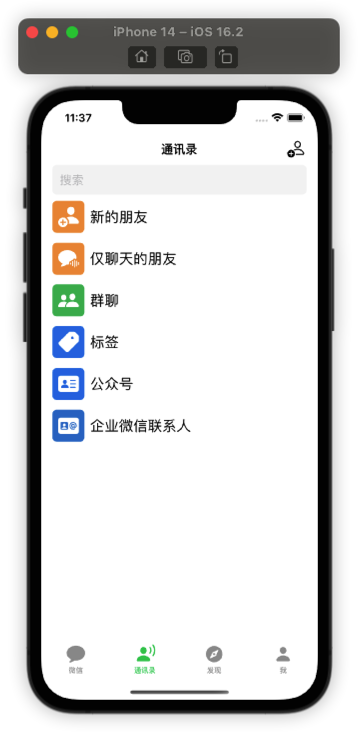
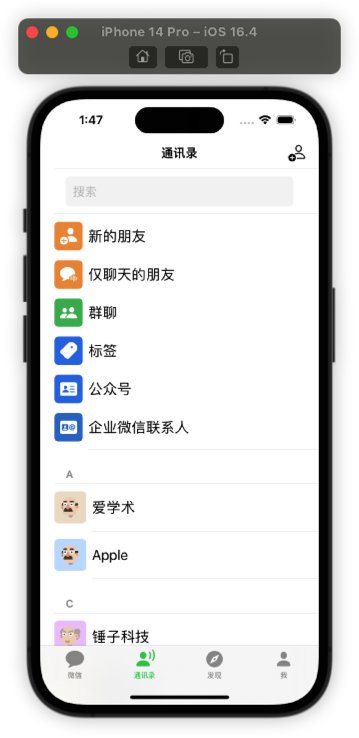
通讯录人员详情完善

diff --git a/wechat/data/Data.swift b/wechat/data/Data.swift
@@ -7,28 +7,35 @@
 
 import Foundation
 
-var recentMessages: [RecentMessage] = [
-    RecentMessage(title:"实时公交",recentMessage:"公交线路查询",date: "7:32", cover:"bus.doubledecker", onTop: true),
-    RecentMessage(title:"铁路12306",recentMessage:"成功订票",date: "7:32", cover:"train.side.front.car", onTop: true),
-    RecentMessage(title:"实时公交",recentMessage:"公交线路查询",date: "7:32", cover:"bus.doubledecker", onTop: true),
-    RecentMessage(title:"铁路12306",recentMessage:"成功订票",date: "7:32", cover:"train.side.front.car", mutex: true),
-    RecentMessage(title:"实时公交",recentMessage:"公交线路查询",date: "7:32", cover:"bus.doubledecker", mutex: true),
-    RecentMessage(title:"铁路12306",recentMessage:"成功订票",date: "7:32", cover:"train.side.front.car", mutex: true),
-    RecentMessage(title:"实时公交",recentMessage:"公交线路查询",date: "昨天", cover:"bus.doubledecker"),
-    RecentMessage(title:"铁路12306",recentMessage:"成功订票",date: "昨天", cover:"train.side.front.car"),
-    RecentMessage(title:"实时公交",recentMessage:"公交线路查询",date: "前天", cover:"bus.doubledecker"),
-    RecentMessage(title:"铁路12306",recentMessage:"成功订票",date: "前天", cover:"train.side.front.car"),
-    RecentMessage(title:"实时公交",recentMessage:"公交线路查询",date: "前天", cover:"bus.doubledecker"),
-    RecentMessage(title:"铁路12306",recentMessage:"成功订票",date: "星期一", cover:"train.side.front.car"),
-    RecentMessage(title:"实时公交",recentMessage:"公交线路查询",date: "星期一", cover:"bus.doubledecker"),
-    RecentMessage(title:"铁路12306",recentMessage:"成功订票",date: "3-21", cover:"train.side.front.car"),
-    RecentMessage(title:"实时公交",recentMessage:"公交线路查询",date: "3-20", cover:"bus.doubledecker"),
-    RecentMessage(title:"铁路12306",recentMessage:"成功订票",date: "1-23", cover:"train.side.front.car"),
-]
+
+
+class Db: ObservableObject{
+    @Published var recentMessages: [RecentMessage] = [
+        RecentMessage(title:"爱学术",pinyin:"AIXUESHU",recentMessage:"文章查询",date: "7:32", cover:"bus.doubledecker", onTop: true),
+        RecentMessage(title:"Apple",pinyin:"APPLE",recentMessage:"iOS17发布",date: "7:32", cover:"bus.doubledecker", onTop: true),
+        RecentMessage(title:"锤子科技",pinyin:"CHUIZIKEJI",recentMessage:"锤子T3新品发布会",date: "7:32", cover:"train.side.front.car", onTop: true),
+        RecentMessage(title:"IT之家",pinyin:"ITZHIJIA",recentMessage:"iOS17发布",date: "7:32", cover:"bus.doubledecker", onTop: true),
+        RecentMessage(title:"孔夫子旧书网",pinyin:"KONGFUZHIJIUSHUWANG",recentMessage:"购书成功",date: "7:32", cover:"train.side.front.car", mutex: true),
+        RecentMessage(title:"SeaTable",pinyin:"SEATABLE",recentMessage:"使用教程",date: "7:32", cover:"bus.doubledecker", mutex: true),
+        RecentMessage(title:"铁路12306",pinyin:"TIELU12306",recentMessage:"成功订票",date: "7:32", cover:"train.side.front.car", mutex: true),
+        RecentMessage(title:"四川省图书馆",pinyin:"SICHUANSHENGTUSHUGUAN",recentMessage:"入馆预定",date: "昨天", cover:"bus.doubledecker"),
+        RecentMessage(title:"微信运动",pinyin:"WEIXINYUNDONG",recentMessage:"昨日微信步数排行第一",date: "昨天", cover:"train.side.front.car"),
+        RecentMessage(title:"微信支付",pinyin:"WEIXINZHIFU",recentMessage:"",date: "前天", cover:"bus.doubledecker"),
+        RecentMessage(title:"中国移动",pinyin:"ZHONGGUOYIDONG",recentMessage:"当前余额:欠费0.01",date: "前天", cover:"train.side.front.car"),
+        RecentMessage(title:"实时公交",pinyin:"SHISHIGONGJIAO",recentMessage:"公交线路查询",date: "前天", cover:"bus.doubledecker"),
+        RecentMessage(title:"重庆移动",pinyin:"CHOGNQIYIDONG",recentMessage:"当前余额:欠费0.01",date: "星期一", cover:"train.side.front.car"),
+        RecentMessage(title:"中国联通",pinyin:"ZHONGGUOLIANTONG",recentMessage:"当前套餐:哔哩哔哩22卡",date: "星期一", cover:"bus.doubledecker"),
+        RecentMessage(title:"中国石化",pinyin:"ZHONGGUOSHIHUA",recentMessage:"",date: "3-21", cover:"train.side.front.car"),
+        RecentMessage(title:"腾讯企业邮箱",pinyin:"TENGXUNQIYEYOUXIANG",recentMessage:"[新邮件]提醒",date: "3-20", cover:"bus.doubledecker"),
+        RecentMessage(title:"腾讯视频",pinyin:"TENGXUNSHIP",recentMessage:"会员过期",date: "1-23", cover:"train.side.front.car"),
+    ]
+
+}
 
 struct RecentMessage: Identifiable{
     var id = UUID().uuidString
     var title : String
+    var pinyin: String
     var avatarIndex = Int.random(in: 0...9)
     var avatarColorIndex = Int.random(in: 0...9)
     var recentMessage : String

diff --git a/wechat/contacts/ContactsView.swift b/wechat/contacts/ContactsView.swift
@@ -8,11 +8,27 @@
 import SwiftUI
 
 struct ContactsView: View {
+    @EnvironmentObject var db: Db
     @State var isPopover = false
     @State var searchText = ""
     @FocusState var isSearchFoucsed
+    let letters = Array("ABCDEFGHIJKLMNOPQRSTUVWXYZ")
+    
+    func groupedBy(charater: Character) -> [RecentMessage]{
+        return db.recentMessages.filter{$0.pinyin.hasPrefix(charater.uppercased())}
+    }
+    
+    func hasContactsGroup(charater: Character) -> Bool{
+        for recent in db.recentMessages {
+            if recent.pinyin.uppercased().hasPrefix(charater.uppercased()) {
+                return true
+            }
+        }
+        return false
+    }
+    
     var body: some View {
-        ScrollView(showsIndicators: false){
+        List{
             HStack{
                 TextField("搜索",text: $searchText)
                     .focused($isSearchFoucsed)
@@ -41,7 +57,24 @@ struct ContactsView: View {
                 ContactsCategoryView(avatarName: "person.text.rectangle.fill", color: Color(hex: "2778E4"), title: "公众号")
                 ContactsCategoryView(avatarName: "person.crop.square.filled.and.at.rectangle.fill", color: Color(hex: "3176CB"), title: "企业微信联系人")
             }
+            ForEach(letters, id: \.self) { letter in
+                if hasContactsGroup(charater: letter){
+                    Section {
+                        ForEach(groupedBy(charater: letter)){item in
+                            ContactsItemView(avatarName: "avatar\(item.avatarIndex)", color: Color("avatar_color\(item.avatarColorIndex)"), title: item.title)
+                        }
+                    } header: {
+                        HStack{
+                            Text(String(letter))
+                                .foregroundColor(.gray)
+                            Spacer()
+                        }
+                        .padding(.horizontal)
+                    }
+                }
+            }
         }
+        .listStyle(.inset)
         .toolbar {
             Button {
                 isPopover = true

diff --git a/wechat/contacts/ContactsCategoryView.swift b/wechat/contacts/ContactsCategoryView.swift
@@ -13,7 +13,21 @@ struct ContactsCategoryView: View {
     var title: String
     var body: some View {
         HStack{
-            SystemAvatarView(name: avatarName,color: color)
+            SystemAvatarView(name: avatarName,color: color,width: 40, height: 40)
+                .foregroundColor(.white)
+            Text(title).font(.title3)
+            Spacer()
+        }
+    }
+}
+
+struct ContactsItemView: View {
+    var avatarName: String
+    var color: Color
+    var title: String
+    var body: some View {
+        HStack{
+            AssetsAvatarView(name: avatarName,color: color)
                 .foregroundColor(.white)
             Text(title).font(.title3)
             Spacer()
@@ -23,6 +37,9 @@ struct ContactsCategoryView: View {
 
 struct ContactsCategoryView_Previews: PreviewProvider {
     static var previews: some View {
-        ContactsCategoryView(avatarName: "person.fill.badge.plus", color: Color(hex: "ED9541"), title: "新的朋友")
+        VStack {
+            ContactsCategoryView(avatarName: "person.fill.badge.plus", color: Color(hex: "ED9541"), title: "新的朋友")
+            ContactsItemView(avatarName: "person.fill.badge.plus", color: Color(hex: "ED9541"), title: "新的朋友")
+        }
     }
 }

diff --git a/wechat/ContentView.swift b/wechat/ContentView.swift
@@ -8,11 +8,13 @@
 import SwiftUI
 
 struct ContentView: View {
+    @StateObject var db = Db()
     @State var selectedView = 0
     var body: some View {
         TabView(selection: $selectedView){
             NavigationSplitView {
                 RecentView()
+                    .environmentObject(db)
                     .navigationBarTitleDisplayMode(.inline)
                     .navigationBarTitle(title)
                     .background {
@@ -31,6 +33,7 @@ struct ContentView: View {
             
             NavigationSplitView {
                 ContactsView()
+                    .environmentObject(db)
                     .navigationBarTitleDisplayMode(.inline)
                     .navigationBarTitle(title)
             } detail: {

diff --git a/wechat/recent/RecentView.swift b/wechat/recent/RecentView.swift
@@ -8,6 +8,7 @@
 import SwiftUI
 
 struct RecentView: View {
+    @EnvironmentObject var db: Db
     @State var isPopover = false
     @State var searchText = ""
     @FocusState var isSearchFoucsed
@@ -55,7 +56,7 @@ struct RecentView: View {
                 Color.gray.opacity(0.1)
             }
             .listRowInsets(EdgeInsets(top: 0, leading: 0, bottom: 1, trailing: 0))//重点在这句话
-            ForEach(recentMessages){item in
+            ForEach(db.recentMessages){item in
                 RecentMessageView(message: item)
                     .padding(.horizontal)
                     .padding(.vertical, 10)

diff --git a/wechat/recent/RecentMessageView.swift b/wechat/recent/RecentMessageView.swift
@@ -39,7 +39,7 @@ struct RecentMessageView: View {
 
 struct RecentMessageView_Previews: PreviewProvider {
     static var previews: some View {
-        RecentMessageView(message: RecentMessage(title: "铁路", recentMessage: "最近消息", date: "7:23", cover: "video.fill.badge.plus", mutex: true))
+        RecentMessageView(message: RecentMessage(title: "铁路12306",pinyin: "", recentMessage: "最近消息", date: "7:23", cover: "video.fill.badge.plus", mutex: true))
             .padding()
     }
 }

diff --git a/wechat/recent/AvatarView.swift b/wechat/recent/AvatarView.swift
@@ -19,6 +19,6 @@ struct AvatarView: View {
 
 struct AvatarView_Previews: PreviewProvider {
     static var previews: some View {
-        RecentMessageView(message: RecentMessage(title: "和谐一家亲", recentMessage: "网络一线牵", date: "7:23", cover: "video.fill.badge.plus"))
+        RecentMessageView(message: RecentMessage(title: "铁路12306",pinyin: "", recentMessage: "购票成功", date: "7:23", cover: "video.fill.badge.plus"))
     }
 }

diff --git a/wechat/common/DefaultAvatarView.swift b/wechat/common/DefaultAvatarView.swift
@@ -57,7 +57,6 @@ struct SystemAvatarView: View{
                     .cornerRadius(6)
                     .foregroundColor(color)
             }
-            .padding(.leading)
     }
 }
 
